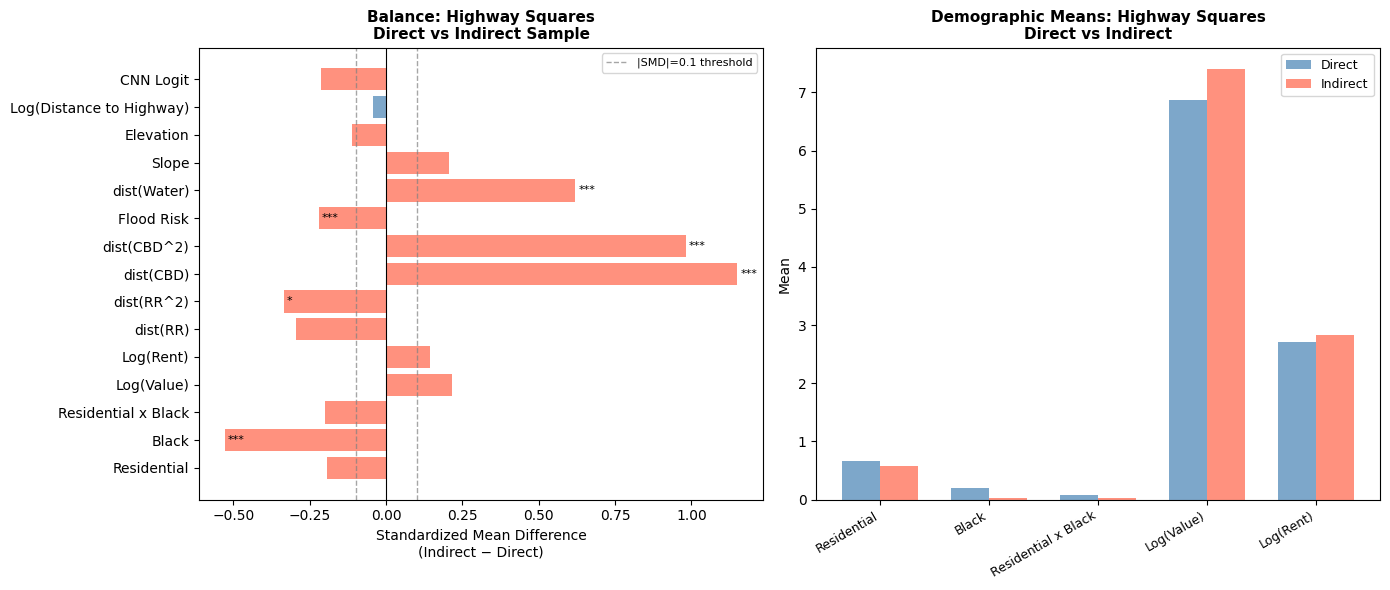
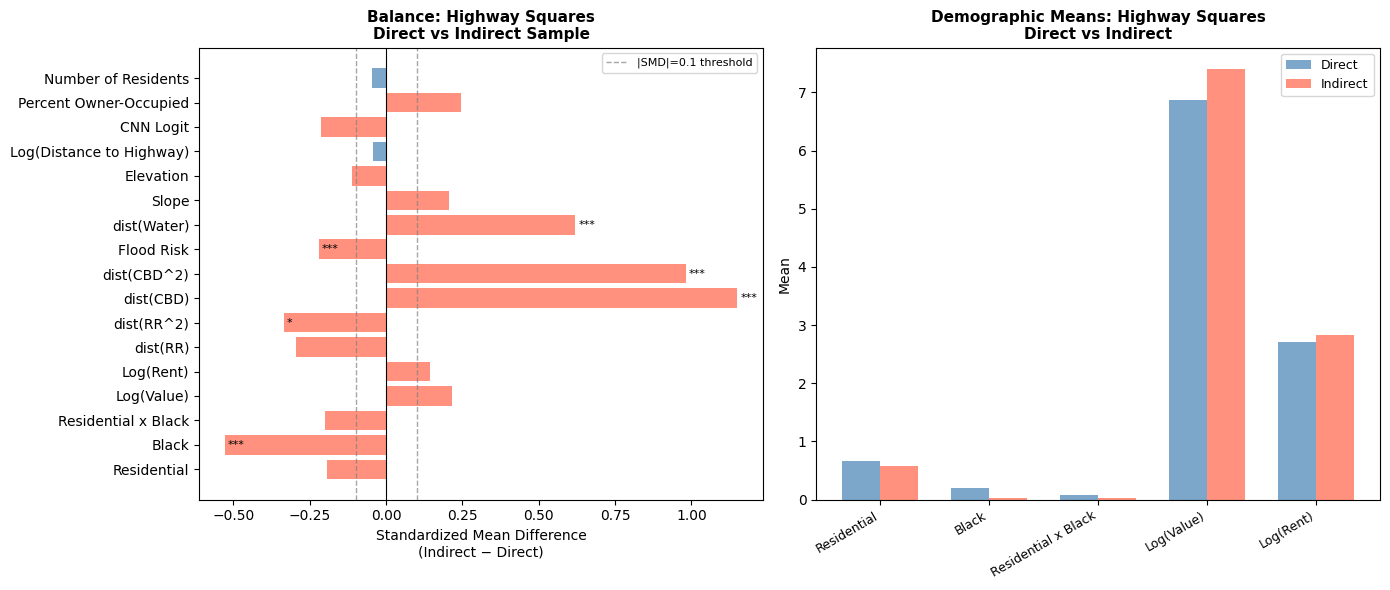
updates

Changed region(s): [[0.0309, 0.0915, 0.5568, 0.8237], [0.0, 0.122, 0.1547, 0.4271]]

diff --git a/tables/robustness/balance_test.tex b/tables/robustness/balance_test.tex
@@ -1,17 +1,53 @@
 \begin{table}[h]
 \centering
-\caption{Balance Test: Effect of Demographics on Corridor Membership}
-\label{tab:robustness/balance_test}
-\begin{tabular*}{0.8\textwidth}{@{\extracolsep{\fill}}l*{1}{r}}
+\caption{Balance Test: Direct vs. Indirect Samples}
+\label{tab:balance_test}
+\begin{threeparttable}
+\begin{tabular*}{0.9\textwidth}{@{\extracolsep{\fill}}l*{4}{r}}
 \toprule
- & Coefficient & Std. Error \\
-Variable &  &  \\
+ & Inside Corridor & Outside Corridor & Diff & SMD \\
 \midrule
-Residential & -0.0024 & 0.0178 \\
-Black & 0.0096 & 0.0118 \\
-Residential x Black & 0.0040 & 0.0097 \\
-Log(Value) & -0.1064 & 0.1039 \\
-Log(Rent) & 0.0109 & 0.0651 \\
+\multicolumn{5}{l}{\textbf{Panel A: Highway Squares}} \\
+Residential & 0.667 & 0.571 & \makecell[tr]{-0.095 \\ (0.110)} & -0.195 \\
+Black & 0.202 & 0.036 & \makecell[tr]{-0.167^{***} \\ (0.055)} & -0.528 \\
+Residential x Black & 0.083 & 0.036 & \makecell[tr]{-0.048 \\ (0.046)} & -0.200 \\
+Log(Value) & 6.861 & 7.398 & \makecell[tr]{0.537 \\ (0.527)} & 0.215 \\
+Log(Rent) & 2.718 & 2.837 & \makecell[tr]{0.119 \\ (0.188)} & 0.142 \\
+dist(RR) & 6.588 & 6.322 & \makecell[tr]{-0.267 \\ (0.199)} & -0.295 \\
+dist(RR^2) & 44.285 & 40.685 & \makecell[tr]{-3.599^{*} \\ (2.212)} & -0.334 \\
+dist(CBD) & 3292.569 & 5462.900 & \makecell[tr]{2170.332^{***} \\ (411.292)} & 1.150 \\
+dist(CBD^2) & 13518215.683 & 34098353.326 & \makecell[tr]{20580137.643^{***} \\ (5338681.969)} & 0.981 \\
+Flood Risk & 0.024 & 0.000 & \makecell[tr]{-0.024^{***} \\ (0.017)} & -0.220 \\
+dist(Water) & 140826.817 & 317670.241 & \makecell[tr]{176843.424^{***} \\ (65786.177)} & 0.619 \\
+Slope & 0.054 & 0.062 & \makecell[tr]{0.007 \\ (0.007)} & 0.205 \\
+Elevation & 0.267 & -0.800 & \makecell[tr]{-1.067 \\ (2.585)} & -0.111 \\
+Log(Distance to Highway) & 6.348 & 6.303 & \makecell[tr]{-0.045 \\ (0.224)} & -0.044 \\
+CNN Logit & -3.183 & -3.404 & \makecell[tr]{-0.221 \\ (0.236)} & -0.213 \\
+Percent Owner-Occupied & 0.333 & 0.397 & \makecell[tr]{0.064 \\ (0.059)} & 0.245 \\
+Number of Residents & 53.286 & 51.107 & \makecell[tr]{-2.179 \\ (10.328)} & -0.048 \\
+\multicolumn{5}{l}{\textbf{Panel B: Non-Highway Squares}} \\
+Residential & 0.690 & 0.787 & \makecell[tr]{0.097^{***} \\ (0.011)} & 0.222 \\
+Black & 0.182 & 0.132 & \makecell[tr]{-0.050^{***} \\ (0.009)} & -0.139 \\
+Residential x Black & 0.103 & 0.087 & \makecell[tr]{-0.016^{**} \\ (0.007)} & -0.055 \\
+Log(Value) & 6.636 & 6.914 & \makecell[tr]{0.279^{***} \\ (0.069)} & 0.099 \\
+Log(Rent) & 2.641 & 2.680 & \makecell[tr]{0.039 \\ (0.026)} & 0.036 \\
+dist(RR) & 6.436 & 6.494 & \makecell[tr]{0.058^{**} \\ (0.027)} & 0.054 \\
+dist(RR^2) & 42.603 & 43.364 & \makecell[tr]{0.761^{**} \\ (0.301)} & 0.063 \\
+dist(CBD) & 4215.565 & 5186.125 & \makecell[tr]{970.560^{***} \\ (54.567)} & 0.426 \\
+dist(CBD^2) & 23351921.122 & 31669014.776 & \makecell[tr]{8317093.654^{***} \\ (630574.443)} & 0.333 \\
+Flood Risk & 0.032 & 0.043 & \makecell[tr]{0.012^{**} \\ (0.005)} & 0.061 \\
+dist(Water) & 272738.883 & 311520.273 & \makecell[tr]{38781.390^{***} \\ (7321.923)} & 0.126 \\
+Slope & 0.051 & 0.058 & \makecell[tr]{0.007^{***} \\ (0.001)} & 0.196 \\
+Elevation & 0.123 & -2.175 & \makecell[tr]{-2.297^{***} \\ (0.358)} & -0.161 \\
+Log(Distance to Highway) & 6.391 & 6.105 & \makecell[tr]{-0.286^{***} \\ (0.032)} & -0.222 \\
+CNN Logit & -5.062 & -5.059 & \makecell[tr]{0.003 \\ (0.021)} & 0.003 \\
+Percent Owner-Occupied & 0.362 & 0.464 & \makecell[tr]{0.103^{***} \\ (0.007)} & 0.351 \\
+Number of Residents & 58.565 & 47.303 & \makecell[tr]{-11.262^{***} \\ (1.208)} & -0.222 \\
 \bottomrule
 \end{tabular*}
+\begin{tablenotes}
+\small
+\item This table shows a comparison of mean demographic and geographic characteristics for grid squares inside the highway corridor (Column 1) and outside the highway corridor (Column 2).Column 3 shows the difference in means between the two samples, with standard errors reported in parenthesis and estimated using a bootstrap procedure with 1,000 draws.Column 4 shows the standardized mean difference (SMD) between the two samples, calculated as the difference in means divided by the pooled standard deviation.Panel A contains this comparison for grid squares that are intersected by a highway, while Panel B contains this comparison for grid squares that are not intersected by a highway. *p<0.10, ** p<0.05, *** p<0.01
+\end{tablenotes}
+\end{threeparttable}
 \end{table}

diff --git a/tables/discretionary_sample_results.tex b/tables/discretionary_sample_results.tex
@@ -1,0 +1,26 @@
+\begin{table}[h]
+\centering
+\caption{Determinants of Highway Placement - Discretionary Sample}
+\label{tab:discretionary_sample_results}
+\begin{threeparttable}
+\begin{tabular*}{1.0\textwidth}{@{\extracolsep{\fill}}l*{2}{r}}
+\toprule
+ & Discretionary Sample & Discretionary Sample with Interacted CNN Logit \\
+\midrule
+Residential & \makecell[tr]{-0.013^{*} \\ (0.006)} & \makecell[tr]{-0.200^{**} \\ (0.066)} \\
+Black & \makecell[tr]{0.001 \\ (0.010)} & \makecell[tr]{0.053 \\ (0.119)} \\
+Residential x Black & \makecell[tr]{-0.015 \\ (0.011)} & \makecell[tr]{-0.139 \\ (0.124)} \\
+CNN Logit & \makecell[tr]{0.033^{***} \\ (0.004)} & \makecell[tr]{0.061^{***} \\ (0.012)} \\
+Black x CNN Logit &  & \makecell[tr]{0.010 \\ (0.022)} \\
+Residential x CNN Logit &  & \makecell[tr]{-0.038^{**} \\ (0.012)} \\
+Residential x Black x CNN Logit &  & \makecell[tr]{-0.025 \\ (0.023)} \\
+R-squared & 0.076 & 0.096 \\
+Observations & 5301 & 5301 \\
+\bottomrule
+\end{tabular*}
+\begin{tablenotes}
+\small
+\item This table contains estimates of the impact of residential zoning and majority-Black status on the likelihood of highway placement using a sample of grid squares that are discretionary for highway placement.The discretionary sample excludes grid squares that are intersected by a highway in 1940 or are directly adjacent to a highway in 1940. Standard errors are reported in parenthesis and estimated using a bootstrap procedure with 1,000 draws. The model includes controls for housing, geographic, and demographic characteristics, as well as city fixed effects and a measure of geographic suitability for highway placement, estimated as a logit by a Convolutional Neural Network (CNN).Column 2 also includes the interaction between the CNN logit and the variables of interest.* p<0.10, ** p<0.05, *** p<0.01
+\end{tablenotes}
+\end{threeparttable}
+\end{table}

diff --git a/tables/robustness/mblack_threshold.tex b/tables/robustness/mblack_threshold.tex
@@ -1,8 +1,9 @@
 \begin{table}[h]
 \centering
-\caption{Robustness to Majority-Black Threshold (\% Black Required for mblack\_1945def = 1)}
+\caption{Robustness to Majority-Black Threshold (\% Black Required for Classification)}
 \label{tab:robustness/mblack_threshold}
-\begin{tabular*}{\textwidth}{@{\extracolsep{\fill}}l*{9}{r}}
+\begin{threeparttable}
+\begin{tabular*}{1.0\textwidth}{@{\extracolsep{\fill}}l*{9}{r}}
 \toprule
  & 30\% & 35\% & 40\% & 45\% & 50\% & 55\% & 60\% & 65\% & 70\% \\
 \midrule
@@ -13,4 +14,9 @@ R-squared & 0.048 & 0.048 & 0.050 & 0.050 & 0.051 & 0.052 & 0.055 & 0.050 & 0.04
 Observations & 3141 & 3141 & 3141 & 3141 & 3141 & 3141 & 3141 & 3141 & 3141 \\
 \bottomrule
 \end{tabular*}
+\begin{tablenotes}
+\small
+\item This table shows a collection of results testing the impact that different definitions of `Majority Black' have on the estimated impact of Residential zoning and Majority Black status for grid squares outside of the highway corridor.Black is an indicator variable equal to 1 if the grid square has a population where the percentage of Black residents is greater than or equal to the threshold indicated in the column header. Each column represents a separate regression where the definition of `Majority Black' is varied from 30% to 70%. Standard errors are reported in parenthesis and estimated using a bootstrap procedure with 1,000 draws. The model includes all controls included in the main analysis:variables related to housing, geographic, and demographic characteristics, as well as city fixed effects. The model also includes the logit values produced by the CNN and its interactions with the other variables.
+\end{tablenotes}
+\end{threeparttable}
 \end{table}

diff --git a/tables/indirect_results_interaction.tex b/tables/indirect_results_interaction.tex
@@ -1,0 +1,35 @@
+\begin{table}[h]
+\centering
+\caption{Determinants of Highway Placement - Outside Highway Corridor}
+\label{tab:indirect_results_interaction}
+\begin{tabular*}{0.7\textwidth}{@{\extracolsep{\fill}}l*{1}{r}}
+\toprule
+ & Coefficient \\
+\midrule
+Residential & \makecell[tr]{-0.156^{*} \\ (0.079)} \\
+Black & \makecell[tr]{-0.223^{**} \\ (0.076)} \\
+Residential x Black & \makecell[tr]{0.227^{*} \\ (0.107)} \\
+CNN Logit & \makecell[tr]{0.040^{**} \\ (0.014)} \\
+Black x CNN Logit & \makecell[tr]{-0.039^{**} \\ (0.014)} \\
+Residential x CNN Logit & \makecell[tr]{-0.025 \\ (0.015)} \\
+Residential x Black x CNN Logit & \makecell[tr]{0.041^{*} \\ (0.020)} \\
+Log(Value) & \makecell[tr]{0.002^{*} \\ (0.001)} \\
+Log(Rent) & \makecell[tr]{-0.001 \\ (0.001)} \\
+Log(Distance to Highway) & \makecell[tr]{0.002^{*} \\ (0.001)} \\
+Owner & \makecell[tr]{-0.017^{*} \\ (0.008)} \\
+Number of Residents & \makecell[tr]{-0.000 \\ (0.000)} \\
+dist(RR) & \makecell[tr]{0.026^{**} \\ (0.008)} \\
+dist(RR^2) & \makecell[tr]{-0.002^{**} \\ (0.001)} \\
+dist(CBD) & \makecell[tr]{0.000^{*} \\ (0.000)} \\
+dist(CBD^2) & \makecell[tr]{-0.000 \\ (0.000)} \\
+Flood Risk & \makecell[tr]{-0.012^{*} \\ (0.005)} \\
+dist(Water) & \makecell[tr]{-0.000^{***} \\ (0.000)} \\
+Slope & \makecell[tr]{0.092 \\ (0.066)} \\
+Elevation & \makecell[tr]{0.000 \\ (0.000)} \\
+City_Louisville & \makecell[tr]{-1.413^{***} \\ (0.401)} \\
+City_LittleRock & \makecell[tr]{-1.452^{***} \\ (0.412)} \\
+R-squared & 0.055 \\
+Observations & 3141 \\
+\bottomrule
+\end{tabular*}
+\end{table}

diff --git a/tables/marginal_effects_indir.tex b/tables/marginal_effects_indir.tex
@@ -1,0 +1,26 @@
+\begin{table}[h]
+\centering
+\caption{Marginal Effects of Residential Zoning and Majority-Black Status on Highway Placement - Outside Highway Corridor}
+\label{tab:marginal_effects_indir}
+\begin{threeparttable}
+\begin{tabular*}{0.6\textwidth}{@{\extracolsep{\fill}}l*{1}{r}}
+\toprule
+ & -5.044192 \\
+\midrule
+White Non-Residential & \makecell[tr]{0.032 \\ (0.009)} \\
+White Residential & \makecell[tr]{0.004 \\ (0.002)} \\
+Black Non-Residential & \makecell[tr]{0.008 \\ (0.004)} \\
+Black Residential & \makecell[tr]{0.002 \\ (0.003)} \\
+Protection effect (White): Non-Res vs Res & \makecell[tr]{0.028^{***} \\ (0.010)} \\
+Protection effect (Black): Non-Res vs Res & \makecell[tr]{0.007 \\ (0.004)} \\
+Racial gap (Non-Residential): White vs Black & \makecell[tr]{0.024^{***} \\ (0.007)} \\
+Racial gap (Residential): White vs Black & \makecell[tr]{0.003 \\ (0.004)} \\
+Disparate Protection (DiD) & \makecell[tr]{-0.021^{***} \\ (0.008)} \\
+\bottomrule
+\end{tabular*}
+\begin{tablenotes}
+\small
+\item This table contains predicted outcomes for each square in the sample based on their residential and majority-Black status, holding all other variables at their mean. The marginal effect of residential zoning and majority-Black statusis calculated as the difference in predicted outcomes between squares with and without these characteristics. These marginal effects are calculated based on the coefficients reported in Table \ref{tab:indirect_results}. * p<0.10, ** p<0.05, *** p<0.01
+\end{tablenotes}
+\end{threeparttable}
+\end{table}

diff --git a/tables/indirect_results.tex b/tables/indirect_results.tex
@@ -1,0 +1,26 @@
+\begin{table}[h]
+\centering
+\caption{Determinants of Highway Placement - Outside Highway Corridor with Interacted CNN Logit}
+\label{tab:indirect_results}
+\begin{threeparttable}
+\begin{tabular*}{0.6\textwidth}{@{\extracolsep{\fill}}l*{1}{r}}
+\toprule
+ & Coefficient \\
+\midrule
+Residential & \makecell[tr]{-0.156^{*} \\ (0.079)} \\
+Black & \makecell[tr]{-0.223^{**} \\ (0.076)} \\
+Residential x Black & \makecell[tr]{0.227^{*} \\ (0.107)} \\
+CNN Logit & \makecell[tr]{0.040^{**} \\ (0.014)} \\
+Black x CNN Logit & \makecell[tr]{-0.039^{**} \\ (0.014)} \\
+Residential x CNN Logit & \makecell[tr]{-0.025 \\ (0.015)} \\
+Residential x Black x CNN Logit & \makecell[tr]{0.041^{*} \\ (0.020)} \\
+R-squared & 0.055 \\
+Observations & 3141 \\
+\bottomrule
+\end{tabular*}
+\begin{tablenotes}
+\small
+\item This table contains estimates of the impact of residential zoning and majority-Black status on the likelihood of highway placement. The sample is restricted to grid squares that are outside ofthe existing highway corridor. Standard errors are reported in parenthesis and estimated using a bootstrap procedure with 1,000 draws. The model includes controls for housing, geographic, and demographic characteristics, as well as city fixed effects. This model also includes a measure of a square's geographic suitability for highway placement, as estimated by a CNN model, as well as the interaction between this estimated logit and the variables of interest. * p<0.10, ** p<0.05, *** p<0.01
+\end{tablenotes}
+\end{threeparttable}
+\end{table}

diff --git a/tables/indirect_results_no_interaction.tex b/tables/indirect_results_no_interaction.tex
@@ -1,0 +1,23 @@
+\begin{table}[h]
+\centering
+\caption{Determinants of Highway Placement - Outside Highway Corridor with Uninteracted CNN Logit}
+\label{tab:indirect_results_no_interaction}
+\begin{threeparttable}
+\begin{tabular*}{0.6\textwidth}{@{\extracolsep{\fill}}l*{1}{r}}
+\toprule
+ & Coefficient \\
+\midrule
+Residential & \makecell[tr]{-0.027^{**} \\ (0.010)} \\
+Black & \makecell[tr]{-0.024^{***} \\ (0.007)} \\
+Residential x Black & \makecell[tr]{0.021^{**} \\ (0.008)} \\
+CNN Logit & \makecell[tr]{0.018^{***} \\ (0.004)} \\
+R-squared & 0.045 \\
+Observations & 3141 \\
+\bottomrule
+\end{tabular*}
+\begin{tablenotes}
+\small
+\item This table contains estimates of the impact of residential zoning and majority-Black status on the likelihood of highway placement. The sample is restricted to grid squares that are outside ofthe existing highway corridor. Standard errors are reported in parenthesis and estimated using a bootstrap procedure with 1,000 draws. The model includes controls for housing, geographic, and demographic characteristics, as well as city fixed effects. This model also includes a measure of a square's geographic suitability for highway placement, as estimated by a CNN model. * p<0.10, ** p<0.05, *** p<0.01
+\end{tablenotes}
+\end{threeparttable}
+\end{table}

diff --git a/tables/robustness/falsification_test.tex b/tables/robustness/falsification_test.tex
@@ -1,0 +1,23 @@
+\begin{table}[h]
+\centering
+\caption{Falsification Test: Effect of Corridor Membership on Demographics}
+\label{tab:robustness/falsification_test}
+\begin{threeparttable}
+\begin{tabular*}{0.8\textwidth}{@{\extracolsep{\fill}}l*{1}{r}}
+\toprule
+ & Coefficient \\
+\midrule
+Residential & \makecell[tr]{-0.002 \\ (0.009)} \\
+Black & \makecell[tr]{0.010 \\ (0.009)} \\
+Residential x Black & \makecell[tr]{0.004 \\ (0.008)} \\
+Log(Value) & \makecell[tr]{-0.106 \\ (0.066)} \\
+Log(Rent) & \makecell[tr]{0.011 \\ (0.029)} \\
+Observations & 6750 \\
+\bottomrule
+\end{tabular*}
+\begin{tablenotes}
+\small
+\item This table shows the results of a falsification test to assess whether location outside of the highway corridor predicts demographic characteristics, conditional on geographic controls. Each row corresponds to a separate regression of a demographic variable on the corridor indicator and geographic controls. Standard errors are estimated using a bootstrap procedure with 1,000 draws. Insignificant results suggest that, conditional on geographic characteristics, location inside or outside the highway corridor does not predict demographic characteristics.* p<0.10, ** p<0.05, *** p<0.01
+\end{tablenotes}
+\end{threeparttable}
+\end{table}

diff --git a/tables/full_sample_results.tex b/tables/full_sample_results.tex
@@ -1,0 +1,22 @@
+\begin{table}[h]
+\centering
+\caption{Determinants of Highway Placement - Full Sample}
+\label{tab:full_sample_results}
+\begin{threeparttable}
+\begin{tabular*}{1.0\textwidth}{@{\extracolsep{\fill}}l*{2}{r}}
+\toprule
+ & Full Sample & Full Sample with Interacted CNN Logit \\
+\midrule
+Residential & \makecell[tr]{-0.004 \\ (0.005)} & \makecell[tr]{-0.147^{*} \\ (0.058)} \\
+Black & \makecell[tr]{0.002 \\ (0.008)} & \makecell[tr]{0.019 \\ (0.103)} \\
+Residential x Black & \makecell[tr]{-0.009 \\ (0.009)} & \makecell[tr]{0.019 \\ (0.126)} \\
+CNN Logit & \makecell[tr]{0.037^{***} \\ (0.004)} & \makecell[tr]{0.057^{***} \\ (0.010)} \\
+Black x CNN Logit &  & \makecell[tr]{0.003 \\ (0.019)} \\
+Residential x CNN Logit &  & \makecell[tr]{-0.029^{**} \\ (0.011)} \\
+Residential x Black x CNN Logit &  & \makecell[tr]{0.005 \\ (0.024)} \\
+R-squared & 0.078 & 0.086 \\
+Observations & 6750 & 6750 \\
+\bottomrule
+\end{tabular*}
+\end{threeparttable}
+\end{table}

diff --git a/tables/indirect_marginal_interaction.tex b/tables/indirect_marginal_interaction.tex
@@ -1,0 +1,20 @@
+\begin{table}[h]
+\centering
+\caption{Marginal Effects of Zoning and Race - Outside Highway Corridor}
+\label{tab:indirect_marginal_interaction}
+\begin{tabular*}{0.7\textwidth}{@{\extracolsep{\fill}}l*{1}{r}}
+\toprule
+ & Estimate \\
+\midrule
+White Non-Residential & \makecell[tr]{0.141 \\ (0.067)} \\
+White Residential & \makecell[tr]{-0.015 \\ (0.015)} \\
+Black Non-Residential & \makecell[tr]{-0.082 \\ (0.019)} \\
+Black Residential & \makecell[tr]{-0.011 \\ (0.076)} \\
+Protection effect (White): Non-Res vs Res & \makecell[tr]{0.156^{**} \\ (0.079)} \\
+Protection effect (Black): Non-Res vs Res & \makecell[tr]{-0.071 \\ (0.079)} \\
+Racial gap (Non-Residential): White vs Black & \makecell[tr]{0.223^{***} \\ (0.076)} \\
+Racial gap (Residential): White vs Black & \makecell[tr]{-0.004 \\ (0.082)} \\
+Disparate Protection (DiD) & \makecell[tr]{-0.227^{**} \\ (0.107)} \\
+\bottomrule
+\end{tabular*}
+\end{table}
